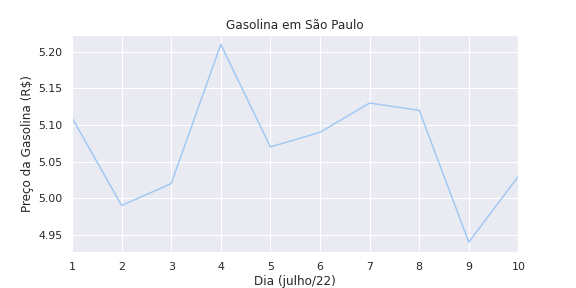
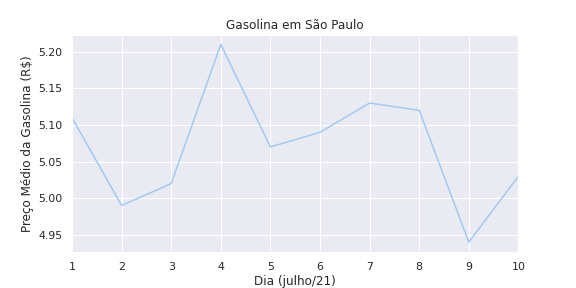
Arquivos alterados com nova base de dados, gráfico e código.

Changed region(s): [[0.0312, 0.1875, 0.0625, 0.8125], [0.5625, 0.9688, 0.5938, 1.0]]

diff --git a/gasolina.py b/gasolina.py
@@ -7,5 +7,5 @@ data = pd.read_csv('gasolina.csv')
 sns.set_theme(style="darkgrid", palette="pastel")
 plt.figure(figsize=(8,4))
 grafico = sns.lineplot(data=data, x="dia", y="venda")
-grafico.set(title='Gasolina em São Paulo', xlabel='Dia (julho/22)', ylabel='Preço da Gasolina (R$)')
+grafico.set(title='Gasolina em São Paulo', xlabel='Dia (julho/21)', ylabel='Preço Médio da Gasolina (R$)')
 grafico.set_xlim(min(data['dia']),max(data['dia']),1)
